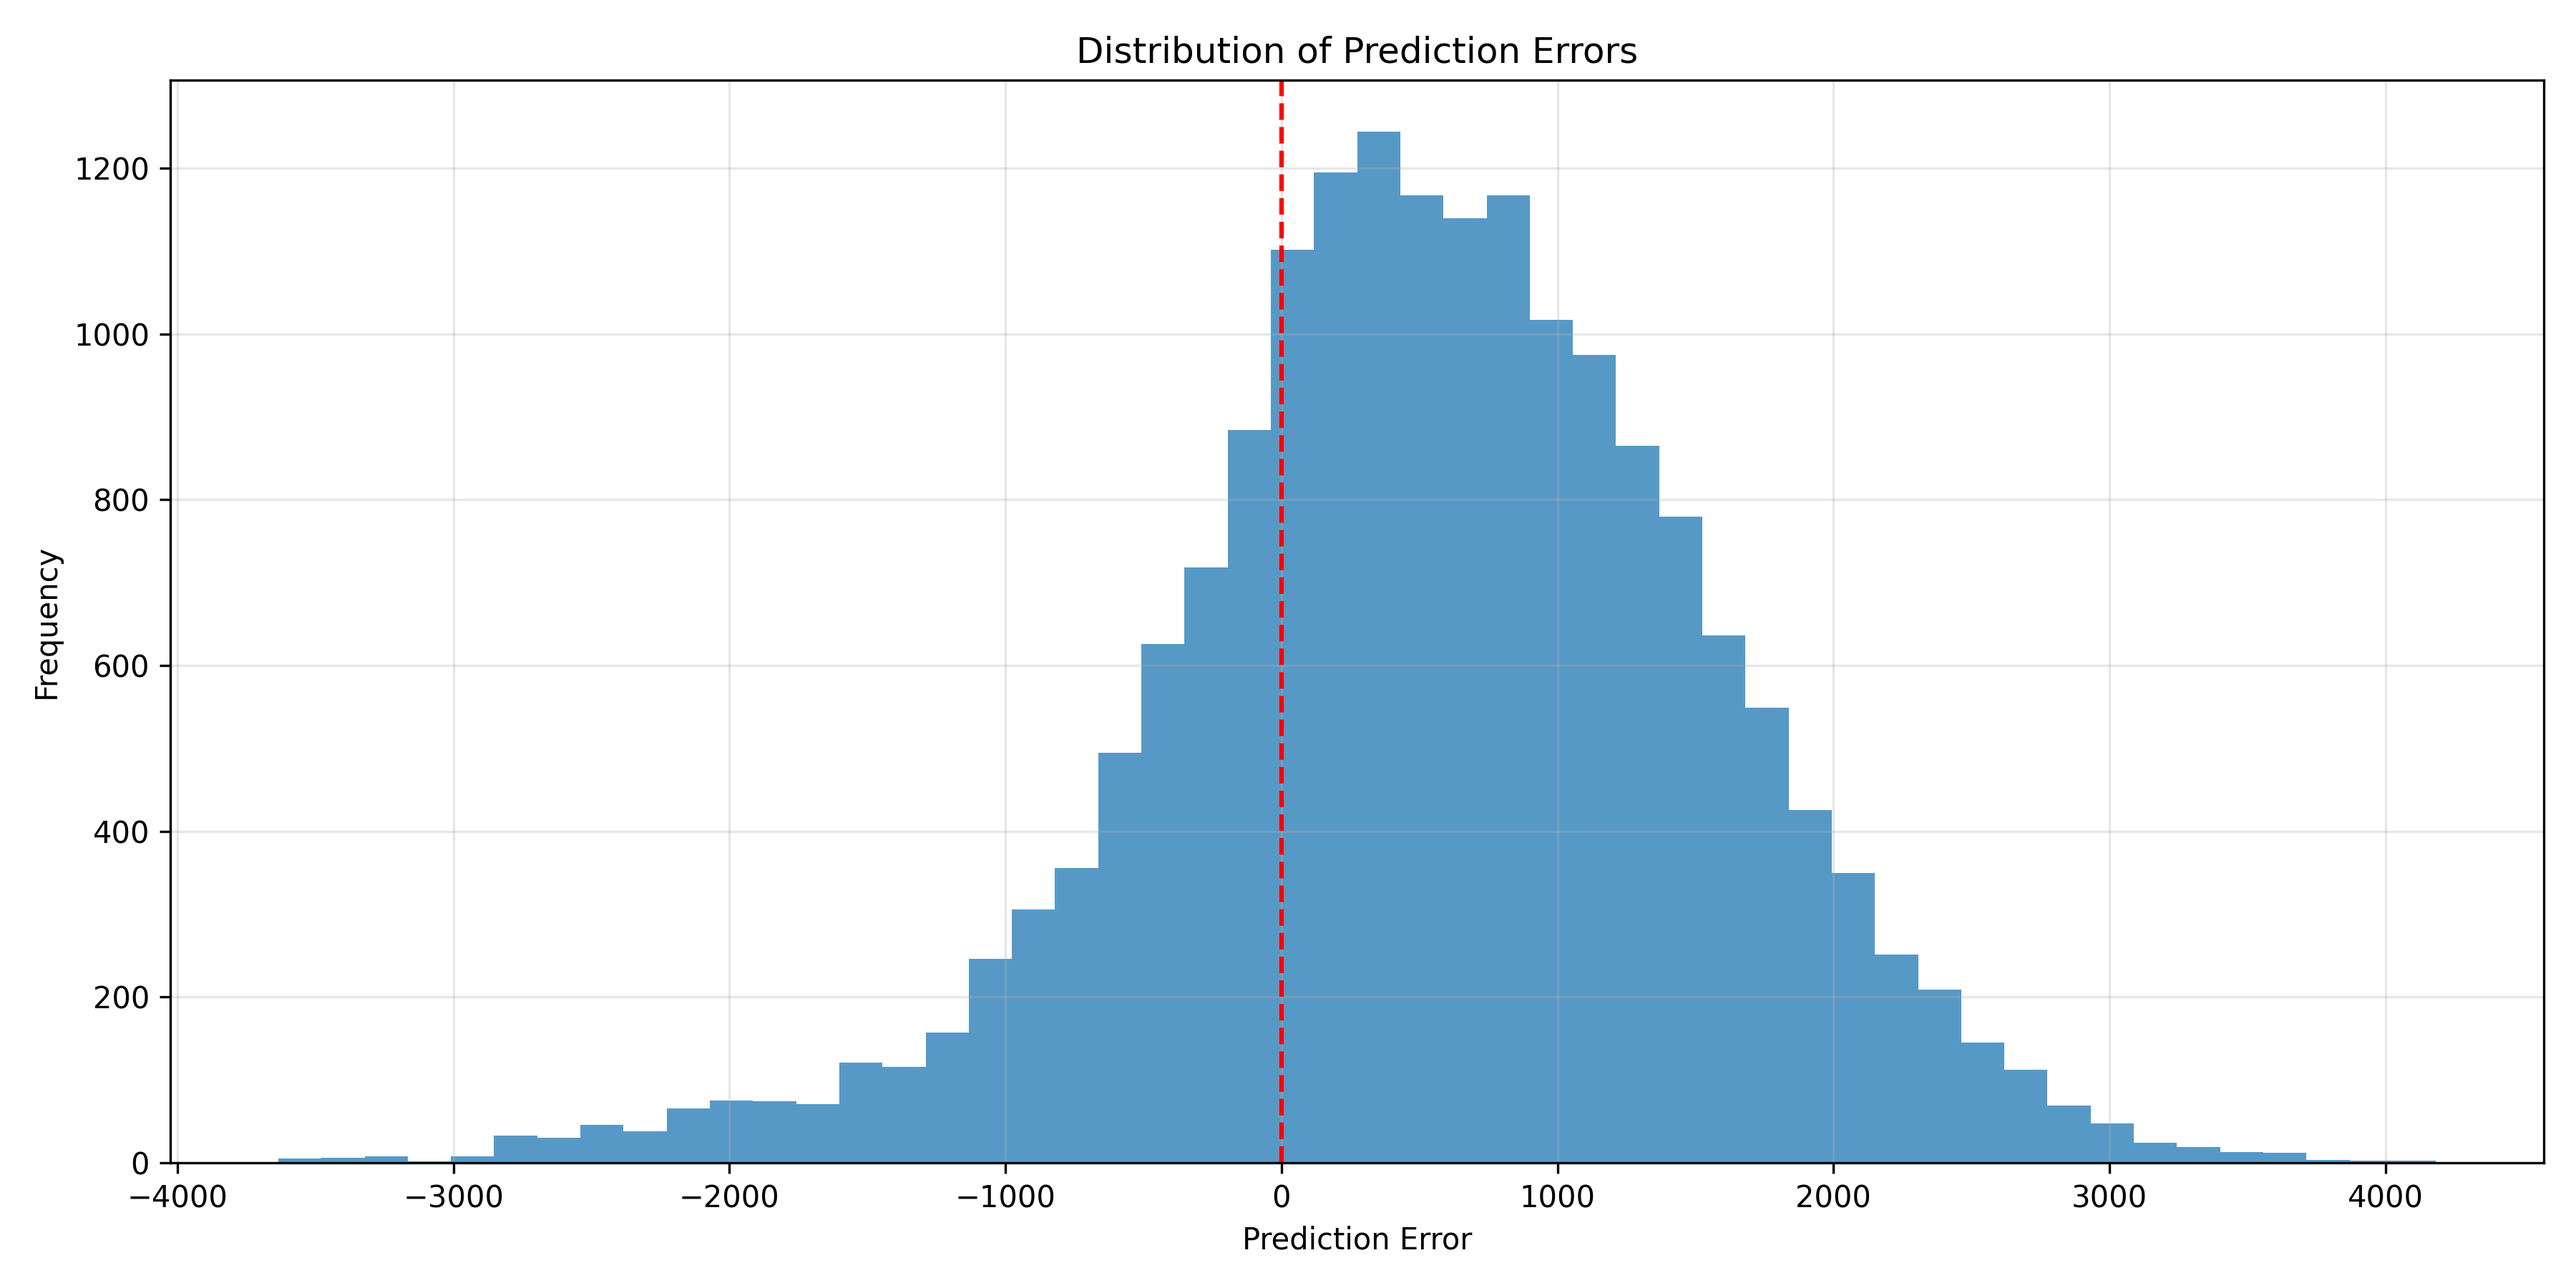
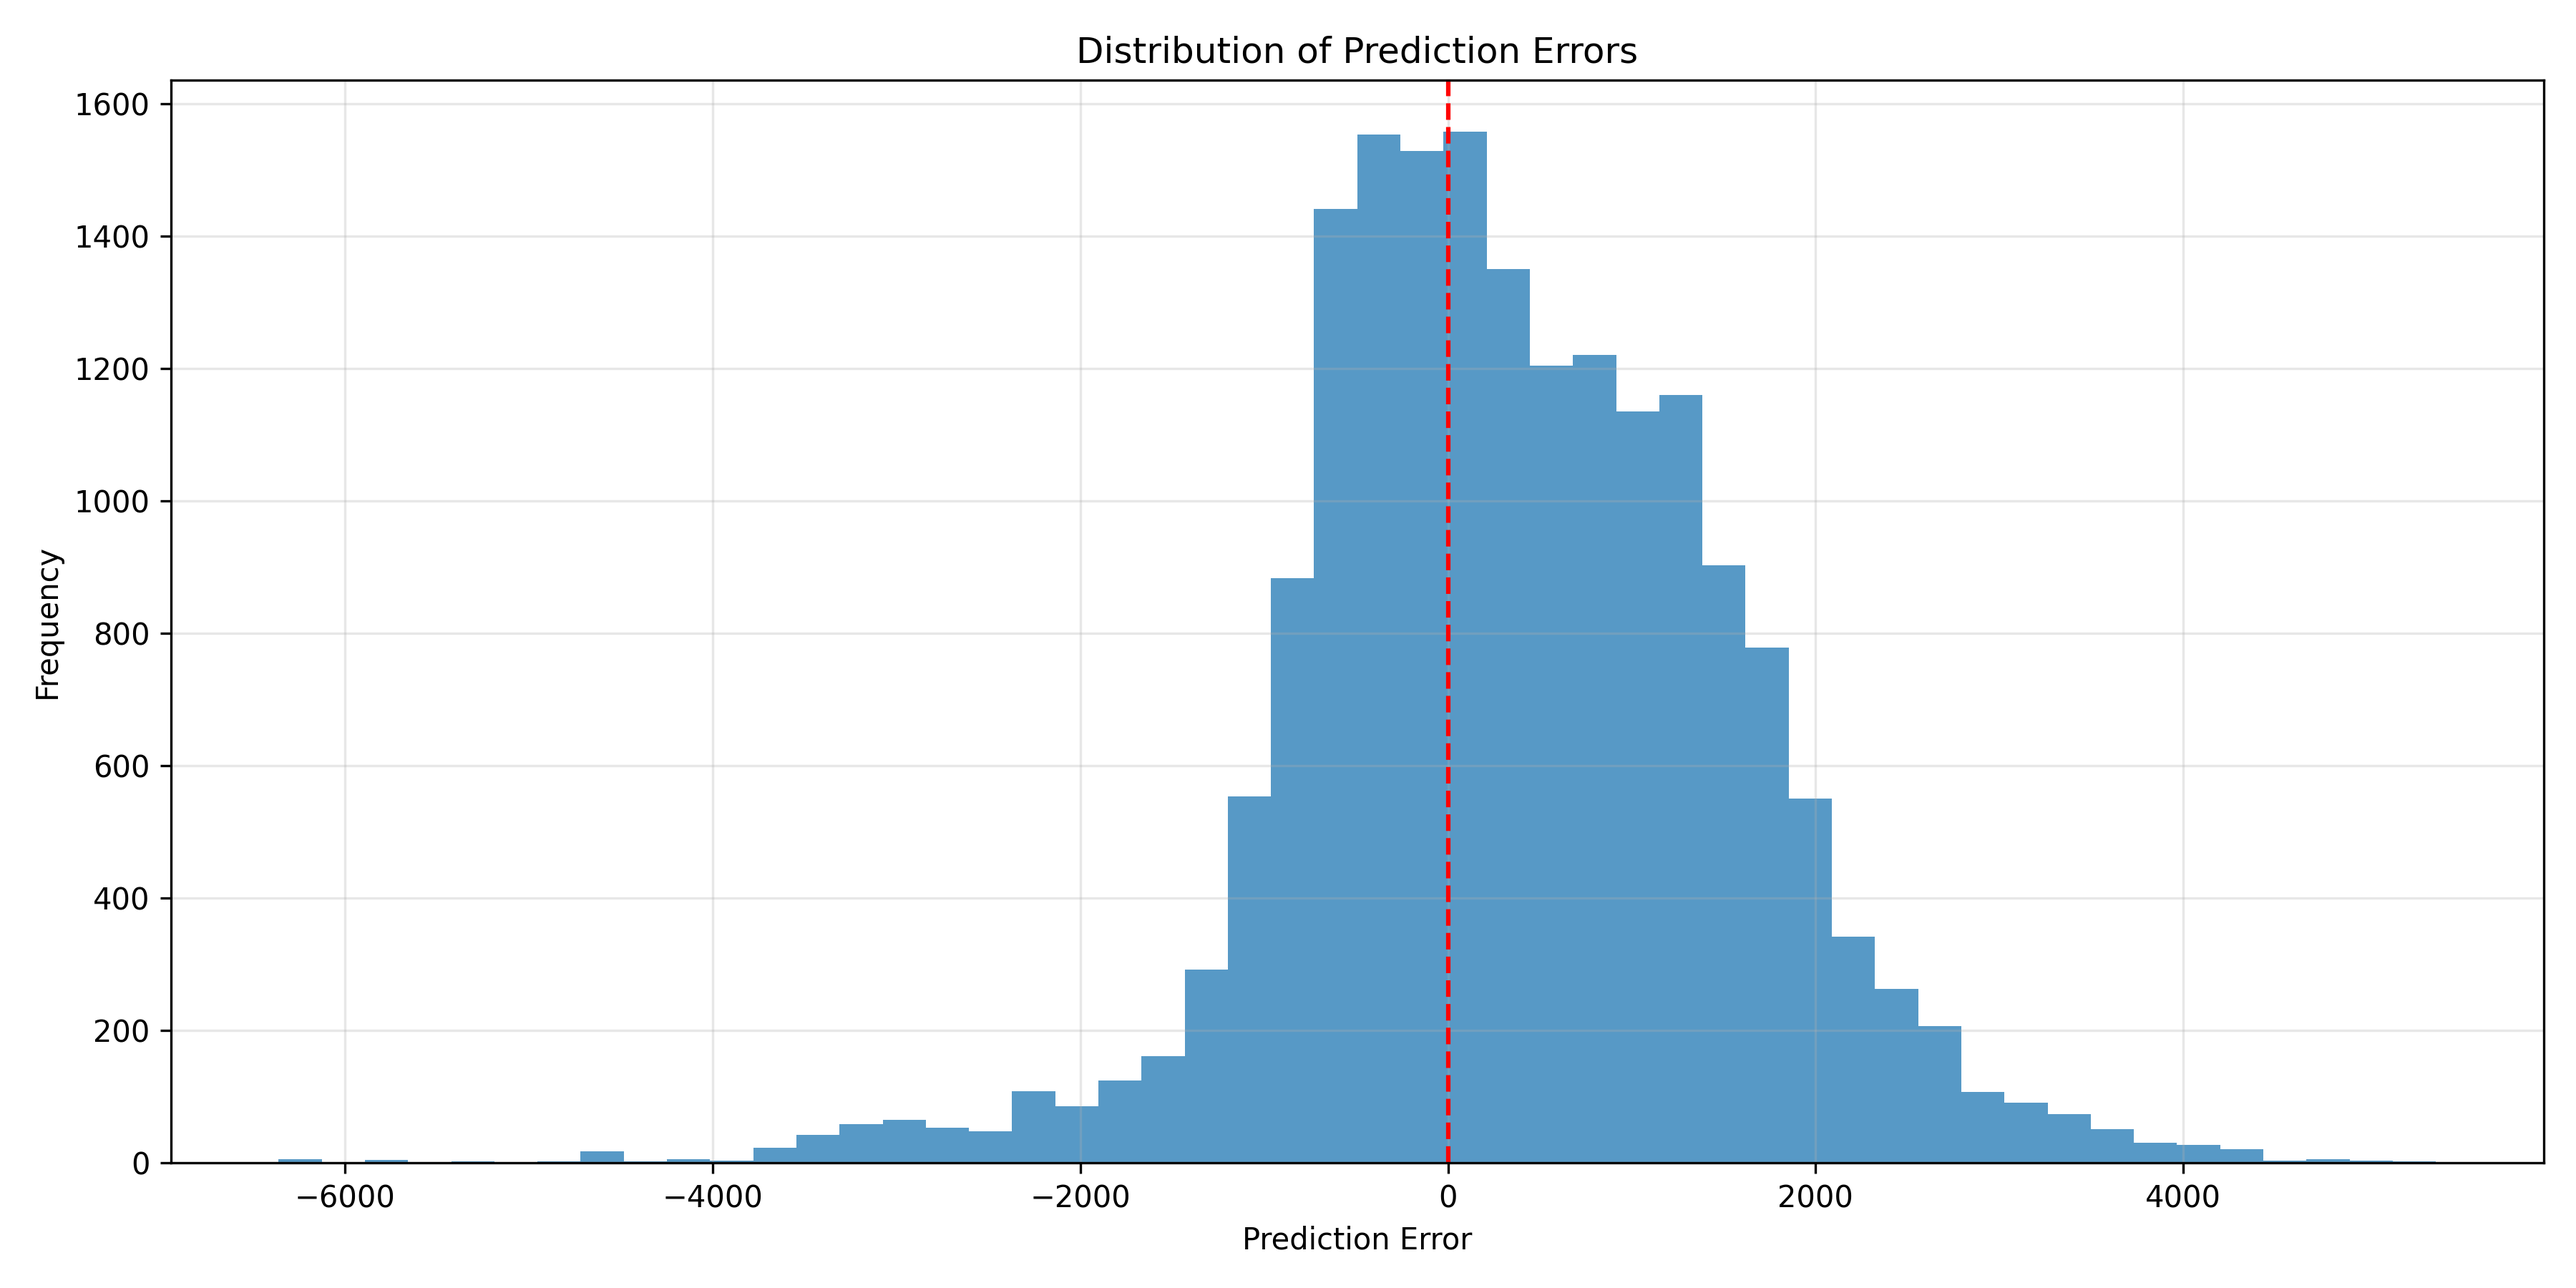
Adjust for newfound data

diff --git a/src/test_data_forecasts_evaluation.py b/src/test_data_forecasts_evaluation.py
@@ -1,0 +1,253 @@
+#!/usr/bin/env python3
+"""
+compare_forecasts.py - Compare forecasted values in X_test files with actual values in X_train
+
+This script compares forecasted values from X_test_n.csv files with actual values from
+X_train_572.csv and calculates R2 metric for each column across the entire period.
+"""
+
+import os
+import glob
+import pandas as pd
+import numpy as np
+from sklearn.metrics import r2_score
+import matplotlib.pyplot as plt
+import argparse
+import re
+
+def find_files(base_dir, train_pattern="X_train_572.csv", test_pattern="X_test_*.csv"):
+    """Find train and test files in the specified directory."""
+    # Find the train file
+    train_path = os.path.join(base_dir, train_pattern)
+    train_files = glob.glob(train_path)
+    
+    if not train_files:
+        raise ValueError(f"Training file not found: {train_path}")
+    
+    train_file = train_files[0]
+    print(f"Found training file: {train_file}")
+    
+    # Find all test files
+    test_path = os.path.join(base_dir, test_pattern)
+    test_files = glob.glob(test_path)
+    
+    if not test_files:
+        raise ValueError(f"No test files found matching: {test_path}")
+    
+    # Extract round number from filenames
+    def extract_round(filename):
+        match = re.search(r'X_test_(\d+)\.csv', os.path.basename(filename))
+        if match:
+            return int(match.group(1))
+        return float('inf')  # Files without valid round number will be processed last
+    
+    # Sort files by round number
+    test_files.sort(key=extract_round)
+    
+    print(f"Found {len(test_files)} test files")
+    return train_file, test_files
+
+def load_and_compare(train_file, test_files, output_dir):
+    """Load train and test files, compare data, and calculate metrics."""
+    # Load the training data (actual values)
+    try:
+        train_df = pd.read_csv(train_file)
+        
+        # Make sure the first column is a datetime column
+        datetime_col = train_df.columns[0]
+        try:
+            train_df[datetime_col] = pd.to_datetime(train_df[datetime_col])
+        except:
+            print(f"Warning: Could not parse '{datetime_col}' as datetime in {train_file}")
+        
+        print(f"Loaded training data with {len(train_df)} rows and columns: {train_df.columns.tolist()}")
+    except Exception as e:
+        raise ValueError(f"Error loading training file {train_file}: {str(e)}")
+    
+    # Dictionary to store all predictions by column
+    all_predictions = {}
+    
+    # Initialize the dictionary with all columns (except datetime)
+    for col in train_df.columns[1:]:
+        all_predictions[col] = {
+            'timestamp': [],
+            'actual': [],
+            'predicted': []
+        }
+    
+    # Process each test file
+    for test_file in test_files:
+        try:
+            # Extract the test number from the filename
+            test_num = re.search(r'X_test_(\d+)\.csv', os.path.basename(test_file))
+            if test_num:
+                test_num = int(test_num.group(1))
+            else:
+                test_num = -1
+            
+            test_df = pd.read_csv(test_file)
+            
+            # Make sure the first column is a datetime column
+            test_datetime_col = test_df.columns[0]
+            try:
+                test_df[test_datetime_col] = pd.to_datetime(test_df[test_datetime_col])
+            except:
+                print(f"Warning: Could not parse '{test_datetime_col}' as datetime in {test_file}")
+            
+            print(f"Processing test file {os.path.basename(test_file)} with {len(test_df)} rows")
+            
+            # For each row in the test file
+            for idx, test_row in test_df.iterrows():
+                test_timestamp = test_row[test_datetime_col]
+                
+                # Find the corresponding row in the train file
+                train_row = train_df[train_df[datetime_col] == test_timestamp]
+                
+                if train_row.empty:
+                    print(f"Warning: No matching timestamp {test_timestamp} in training data")
+                    continue
+                
+                # Compare each column (except the first datetime column)
+                for col in test_df.columns[1:]:
+                    if col not in train_df.columns:
+                        # Skip columns that don't exist in training data
+                        continue
+                    
+                    # Add the values to our predictions dictionary
+                    all_predictions[col]['timestamp'].append(test_timestamp)
+                    all_predictions[col]['actual'].append(train_row[col].iloc[0])
+                    all_predictions[col]['predicted'].append(test_row[col])
+            
+        except Exception as e:
+            print(f"Error processing test file {test_file}: {str(e)}")
+            continue
+    
+    # Calculate metrics and create plots for each column
+    results = {}
+    
+    for col, data in all_predictions.items():
+        # Skip columns with no predictions
+        if not data['predicted']:
+            print(f"No predictions found for column: {col}")
+            continue
+        
+        # Convert to DataFrame for easier handling
+        df = pd.DataFrame({
+            'timestamp': data['timestamp'],
+            'actual': data['actual'],
+            'predicted': data['predicted']
+        })
+        
+        # Remove rows with NaN values
+        df_clean = df.dropna()
+        if len(df_clean) < len(df):
+            print(f"Warning: Dropped {len(df) - len(df_clean)} rows with NaN values for column {col}")
+        
+        if len(df_clean) == 0:
+            print(f"Error: All data for column {col} contains NaN values")
+            results[col] = {
+                'r2': np.nan,
+                'records_count': len(df),
+                'valid_records': 0
+            }
+            continue
+        
+        # Sort by timestamp for meaningful time series plots
+        df_clean = df_clean.sort_values('timestamp')
+        
+        # Calculate R-squared
+        r2 = r2_score(df_clean['actual'], df_clean['predicted'])
+        
+        results[col] = {
+            'r2': r2,
+            'records_count': len(df),
+            'valid_records': len(df_clean)
+        }
+        
+        # Create a time series plot
+        plt.figure(figsize=(15, 6))
+        plt.plot(df_clean['timestamp'], df_clean['actual'], 'b-', label='Actual')
+        plt.plot(df_clean['timestamp'], df_clean['predicted'], 'r--', label='Predicted')
+        plt.legend()
+        plt.title(f"Forecast Evaluation - {col}")
+        plt.xlabel("Time")
+        plt.ylabel("Value")
+        plt.gcf().autofmt_xdate()
+        plt.tight_layout()
+        
+        # Add R² annotation to the plot
+        plt.annotate(f"R² = {r2:.4f}",
+                    xy=(0.02, 0.95), xycoords='axes fraction',
+                    bbox=dict(boxstyle="round,pad=0.5", facecolor="white", alpha=0.8))
+        
+        # Save the figure
+        safe_col_name = col.replace('/', '_').replace('\\', '_').replace(' ', '_').replace(':', '_')
+        plt_output_file = os.path.join(output_dir, f"forecast_eval_{safe_col_name}.png")
+        plt.savefig(plt_output_file)
+        plt.close()
+        print(f"Plot saved to {plt_output_file}")
+        
+        # Save the predictions to CSV
+        csv_output_file = os.path.join(output_dir, f"forecast_data_{safe_col_name}.csv")
+        df_clean.to_csv(csv_output_file, index=False)
+        print(f"Data saved to {csv_output_file}")
+    
+    return results
+
+def main():
+    """Main function to compare forecasts to actual values."""
+    # Set up argument parser
+    parser = argparse.ArgumentParser(description="Compare forecasted values with actual values")
+    parser.add_argument("--base_dir", default="src/data/organized/X_files/", 
+                        help="Directory containing X_train and X_test files")
+    parser.add_argument("--output_dir", default="results/forecast_evaluation", 
+                        help="Directory to save evaluation results")
+    
+    args = parser.parse_args()
+    
+    # Create output directory if it doesn't exist
+    os.makedirs(args.output_dir, exist_ok=True)
+    
+    # Find train and test files
+    try:
+        train_file, test_files = find_files(args.base_dir)
+    except ValueError as e:
+        print(f"Error: {str(e)}")
+        return
+    
+    # Load and compare data
+    try:
+        results = load_and_compare(train_file, test_files, args.output_dir)
+    except ValueError as e:
+        print(f"Error: {str(e)}")
+        return
+    
+    # Print a summary of all results
+    print("\n===== SUMMARY OF RESULTS =====")
+    
+    # Create a summary dataframe for easy comparison
+    summary_data = {
+        'Column': [],
+        'R²': [],
+        'Records': [],
+        'Valid Records': []
+    }
+    
+    for column, metrics in results.items():
+        summary_data['Column'].append(column)
+        summary_data['R²'].append(metrics['r2'])
+        summary_data['Records'].append(metrics['records_count'])
+        summary_data['Valid Records'].append(metrics['valid_records'])
+    
+    # Convert to DataFrame and sort by R² (descending)
+    summary_df = pd.DataFrame(summary_data)
+    summary_df = summary_df.sort_values('R²', ascending=False)
+    print(summary_df.to_string(index=False))
+    
+    # Save the summary to a CSV file
+    summary_file = os.path.join(args.output_dir, "forecast_evaluation_summary.csv")
+    summary_df.to_csv(summary_file, index=False)
+    print(f"Summary saved to {summary_file}")
+
+if __name__ == "__main__":
+    main()

diff --git a/src/data/curves.py b/src/data/curves.py
@@ -14,6 +14,7 @@ curve_collections = {
             "vol de cap imb down afrr mw cet h a",
             "pri de spot €/mwh cet h a",
             "rdl de mwh/h cet min15 a",
+            #"pri de cap imb fcr €/mw cet h a", #Not added simply because I do not have forecasts for it
             #"pri de imb stlmt €/mwh cet min15 a",
             
             #"exc de>se4 com mw cet h a",
@@ -33,16 +34,16 @@ curve_collections = {
         ],
         "X_to_forecast": {
             "vol de imb sys mw cet min15 a"         : "vol de imb sys mw cet min15 n",
-            "vol de imb up mw cet min15 a"          : None,
-            "vol de imb down mw cet min15 a"        : None,
+            "vol de imb up mw cet min15 a"          : "vol de imb up mw cet min15 a",
+            "vol de imb down mw cet min15 a"        : "vol de imb down mw cet min15 a",
             "con de intraday mwh/h cet min15 a"     : "con de intraday mwh/h cet min15 f",
             "con de heating % cet min15 s"          : "con de heating % cet min15 s",
             "con de cooling % cet min15 s"          : "con de cooling % cet min15 s",
             "pro de tot mwh/h cet min15 a"          : "pro de tot mwh/h cet min15 s",
-            "vol de cap imb up mfrr mw cet h a"     : None,
-            "vol de cap imb down mfrr mw cet h a"   : None,
-            "vol de cap imb up afrr mw cet h a"     : None,
-            "vol de cap imb down afrr mw cet h a"   : None,
+            "vol de cap imb up mfrr mw cet h a"     : "vol de cap imb up mfrr mw cet h a",
+            "vol de cap imb down mfrr mw cet h a"   : "vol de cap imb down mfrr mw cet h a",
+            "vol de cap imb up afrr mw cet h a"     : "vol de cap imb up afrr mw cet h a",
+            "vol de cap imb down afrr mw cet h a"   : "vol de cap imb down afrr mw cet h a",
             "pri de spot €/mwh cet h a"             : "pri de spot €/mwh cet h a",
             "rdl de mwh/h cet min15 a"              : "rdl de mwh/h cet min15 a",
         },

diff --git a/src/run_cv_all_targets.py b/src/run_cv_all_targets.py
@@ -545,16 +545,16 @@ def main():
     parser.add_argument('--organized-dir', type=str, default='./src/data/organized',
                        help='Base directory for organized files (default: ./src/data/organized)')
     
-    parser.add_argument('--n_estimators', type=int, default=100,
+    parser.add_argument('--n_estimators', type=int, default=500,
                        help='Number of estimators for XGBoost (default: 100)')
     
-    parser.add_argument('--learning_rate', type=float, default=0.01,
+    parser.add_argument('--learning_rate', type=float, default=0.05,
                        help='Learning rate for XGBoost (default: 0.01)')
     
-    parser.add_argument('--max_depth', type=int, default=3,
+    parser.add_argument('--max_depth', type=int, default=6,
                        help='Max depth for XGBoost (default: 3)')
     
-    parser.add_argument('--subsample', type=float, default=0.9,
+    parser.add_argument('--subsample', type=float, default=0.8,
                        help='Subsample ratio for XGBoost (default: 0.9)')
     
     parser.add_argument('--list', action='store_true',

diff --git a/src/run_cv_with_time_features.py b/src/run_cv_with_time_features.py
@@ -631,7 +631,7 @@ def main():
     parser.add_argument('--max_depth', type=int, default=6,
                        help='Max depth for XGBoost (default: 6)')
     
-    parser.add_argument('--subsample', type=float, default=0.9,
+    parser.add_argument('--subsample', type=float, default=0.8,
                        help='Subsample ratio for XGBoost (default: 0.9)')
     
     parser.add_argument('--no-time-features', action='store_true',

diff --git a/src/data/extract_target_data.py b/src/data/extract_target_data.py
@@ -172,7 +172,7 @@ def extract_target_prices(area, session, start_date, end_date,
             session=session,
             start_date=start_date,
             end_date=end_date,
-            tags=tags,
+            tags=["50pct"],
             output_dir=output_dir
         )
         
